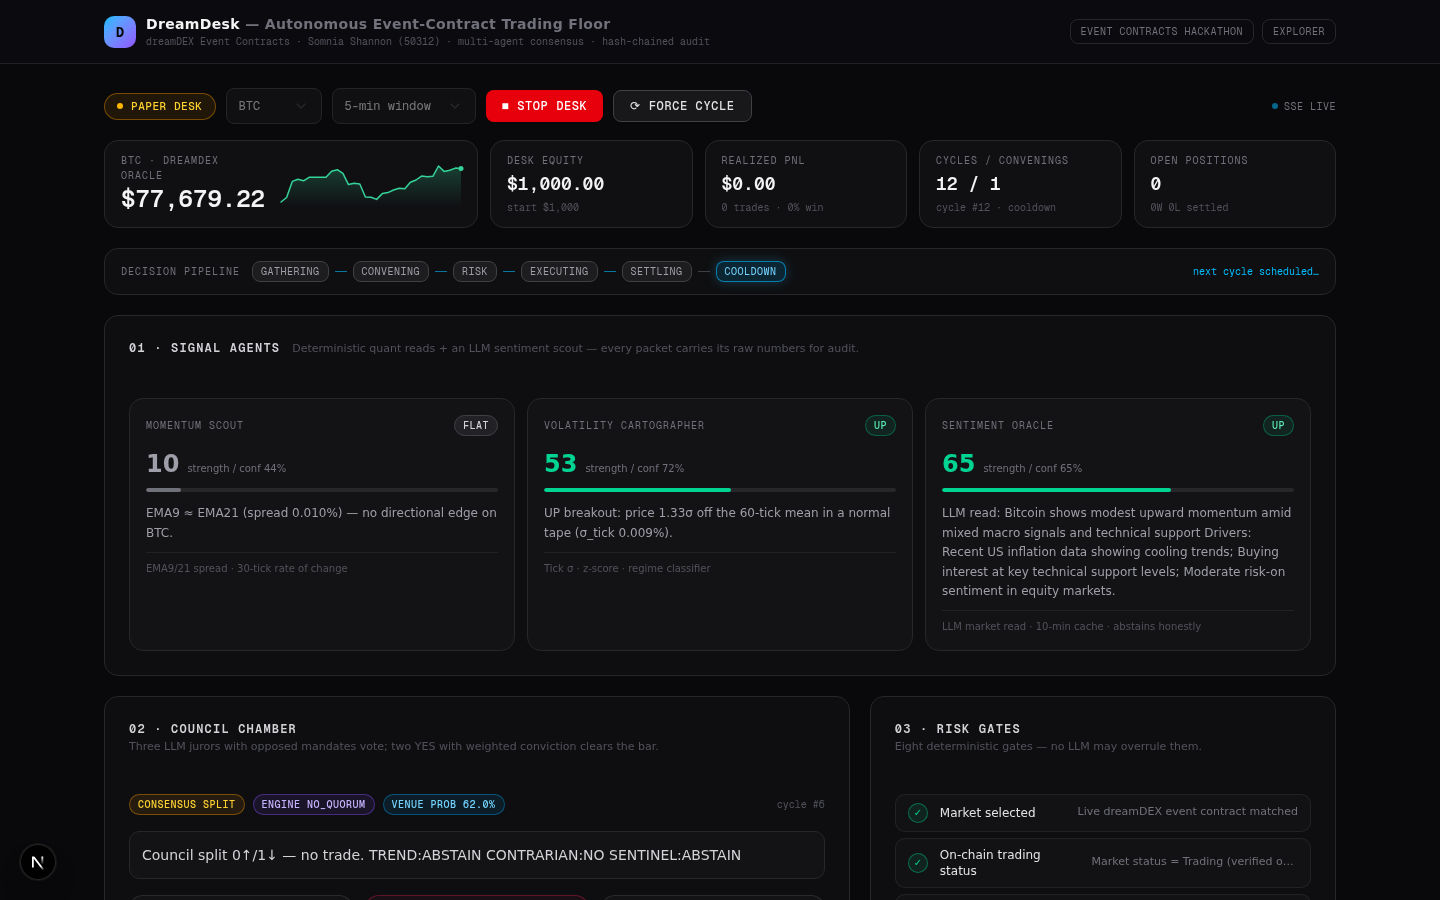
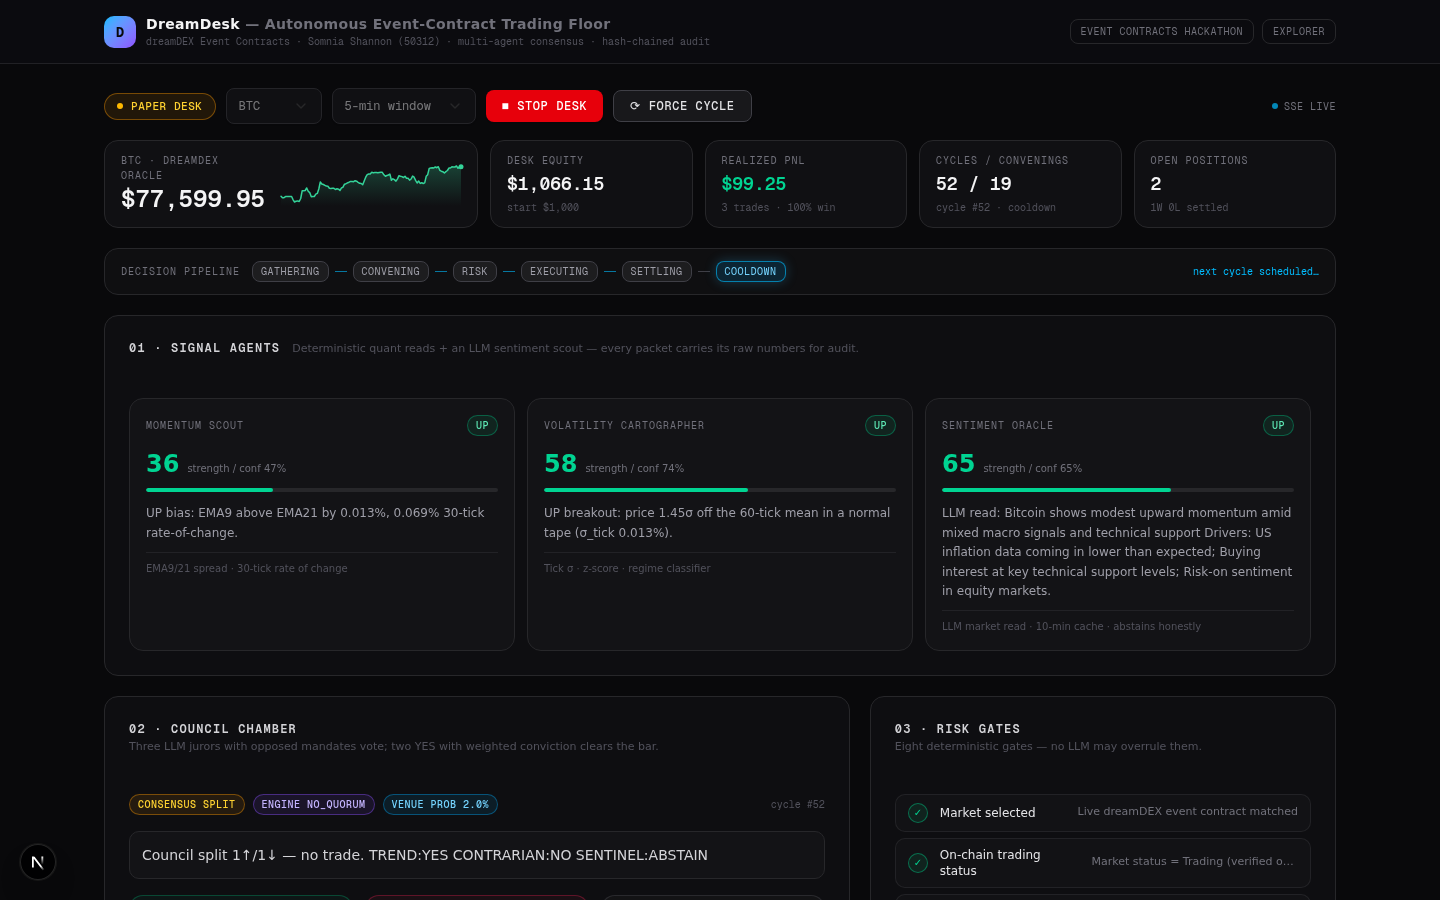
ui: minmax(0,·) grid tracks so the audit feed can't squeeze the book panel
Grid items default to min-width:auto — long unbroken JSON payloads in the
audit feed expanded the 1fr track and crushed the order book. Tracks are now
explicitly minmax(0, …) and panels carry min-w-0.

diff --git a/src/app/page.tsx b/src/app/page.tsx
@@ -85,7 +85,7 @@ export default function Home() {
         </Panel>
 
         {/* ── 02/03 council + risk ─────────────────────────────────── */}
-        <div className="grid gap-5 lg:grid-cols-[1.6fr_1fr]">
+        <div className="grid gap-5 lg:grid-cols-[minmax(0,1.6fr)_minmax(0,1fr)]">
           <Panel title={PANEL_TITLES.council} hint="Three LLM jurors with opposed mandates vote; two YES with weighted conviction clears the bar.">
             <CouncilPanel decision={snap.decision} />
           </Panel>
@@ -95,7 +95,7 @@ export default function Home() {
         </div>
 
         {/* ── 04/05 book + ledger ──────────────────────────────────── */}
-        <div className="grid gap-5 lg:grid-cols-[1.6fr_1fr]">
+        <div className="grid gap-5 lg:grid-cols-[minmax(0,1.6fr)_minmax(0,1fr)]">
           <Panel title={PANEL_TITLES.book} hint="IOC limit orders into the dreamDEX book — LIVE fills settle on-chain, PAPER fills mirror venue prices.">
             <TradePanel open={snap.openTrades} settled={snap.settledTrades} />
           </Panel>
@@ -117,7 +117,7 @@ export default function Home() {
 
 function Panel({ title, hint, children }: { title: string; hint: string; children: React.ReactNode }) {
   return (
-    <Card className="border-zinc-800 bg-[#0e0e11] shadow-none">
+    <Card className="min-w-0 border-zinc-800 bg-[#0e0e11] shadow-none">
       <CardHeader className="pb-3">
         <CardTitle className="flex flex-wrap items-baseline gap-x-3 gap-y-1">
           <span className="font-mono text-xs tracking-widest text-zinc-300 uppercase">{title}</span>
